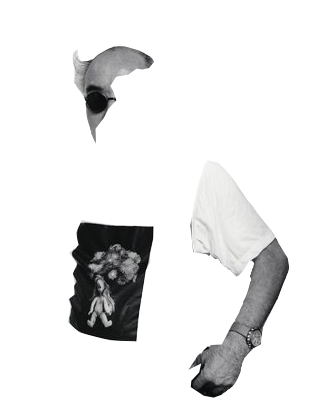
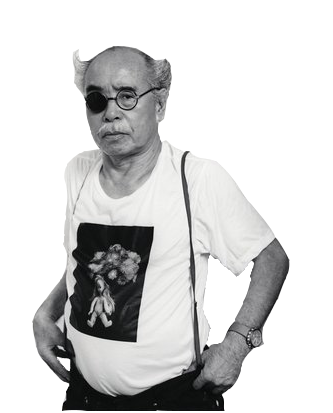
new page of araki

diff --git a/Museum site/JapanesePostwarPhotography.html b/Museum site/JapanesePostwarPhotography.html
@@ -3,18 +3,19 @@
   <head>
     <meta charset="UTF-8">
     <title>Japanese Postwar Photography</title>
-      <link rel="stylesheet" href="assets/css/main.css" type="text/css"/>
+      <link rel="stylesheet" href="assets/css/main.css" type="text/css">
       <link href="https://fonts.googleapis.com/css?family=Cormorant+Garamond|Ubuntu" rel="stylesheet">
       <script src="https://ajax.googleapis.com/ajax/libs/jquery/3.2.1/jquery.min.js"></script>
       <script src="assets/js/portrait.js"></script>
   </head>
   <body>
-      <p class="title left ">Nobuyoshi Araki</p>
+      <a href="assets/html/NobuyoshiAraki.html"><p class="title left ">Nobuyoshi Araki</p></a>
       <div class="img-holder Araki">
-      <div class="pttbox left">
-          <img src="assets/img/PORTRAITE.png">
-      </div>
-          </div>
+        <div class="left">
+          <img src="assets/img/Araki_1.png">
+          <img src="assets/img/Araki_2.png">
+        </div>
+       </div>
       <p class="title right">Daido Moriyama</p>
       <div class="pttbox right">
           <img src="assets/img/DaidoMoriyamaBySebastianMayer copy copy.png" width="70%">

diff --git a/Museum site/assets/css/main.css b/Museum site/assets/css/main.css
@@ -44,13 +44,13 @@ img{
 }
 
 .active img:nth-child(1) {
-    -webkit-animation: apart1 1s infinite;
-    animation: apart1 1s infinite;
+    -webkit-animation: apart2 1s infinite;
+    animation: apart2 1s infinite;
 }
 
 .active img:nth-child(1) {
-    -webkit-animation: apart2 1s infinite;
-    animation: apart2 1s infinite;
+    -webkit-animation: apart1 1s infinite;
+    animation: apart1 1s infinite;
 }
 
 @-webkit-keyframes apart1 {
@@ -67,6 +67,6 @@ img{
   position:relative;
 }
 
-.Araki imh:nth-child(1) {
-    position: absolute;
+.Araki img:nth-child(1) {
+    position: absolute !important;
 }

diff --git a/Museum site/assets/js/portrait.js b/Museum site/assets/js/portrait.js
@@ -1,0 +1,12 @@
+$(document).ready(function(){
+    
+    $(".Araki").on({
+        mouseenter : function() {
+          $(".Araki").addClass(".active");
+        },
+        mouseleave : function() {
+          $(".Araki").removeClass(".active");
+        }
+    });  
+    
+});

diff --git a/Museum site/assets/html/NobuyoshiAraki.html b/Museum site/assets/html/NobuyoshiAraki.html
@@ -1,0 +1,11 @@
+<!DOCTYPE html>
+<html>
+  <head>
+    <meta charset="UTF-8">
+    <title>Nobuyoshi Araki</title>
+    <link rel="stylesheet" href="assets/css/main.css" type="text/css">
+  </head>
+  <body>
+  
+  </body>
+</html>

diff --git a/Museum site/assets/css/Araki.css b/Museum site/assets/css/Araki.css
@@ -1,0 +1,3 @@
+.body{
+   background-color: black;
+}
